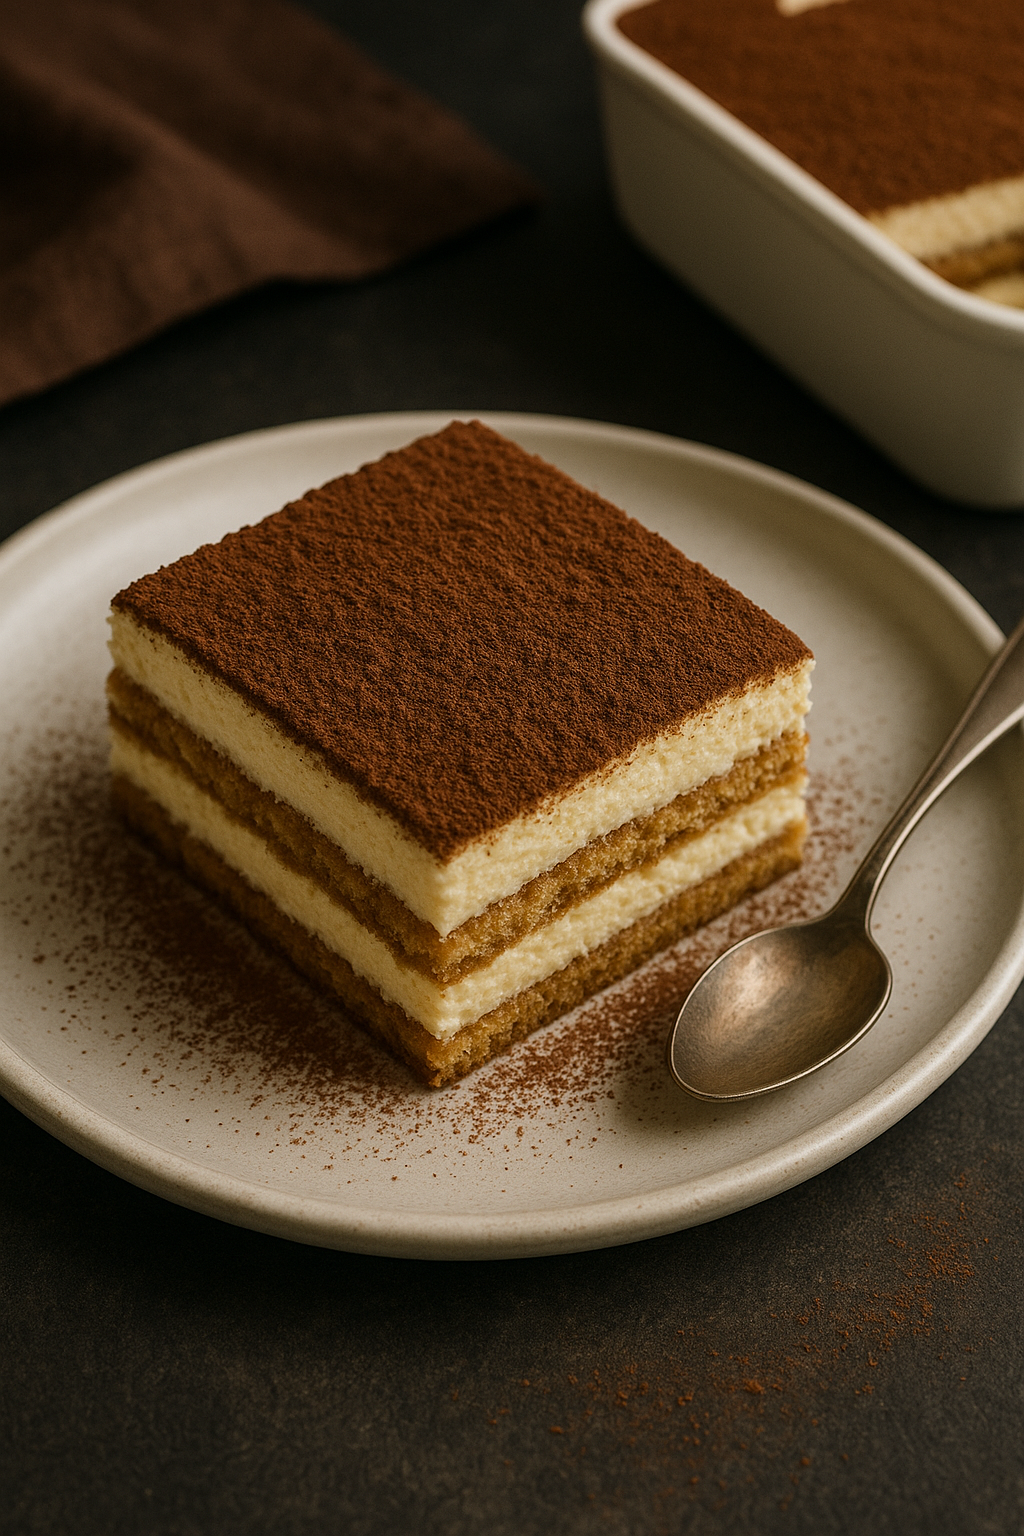
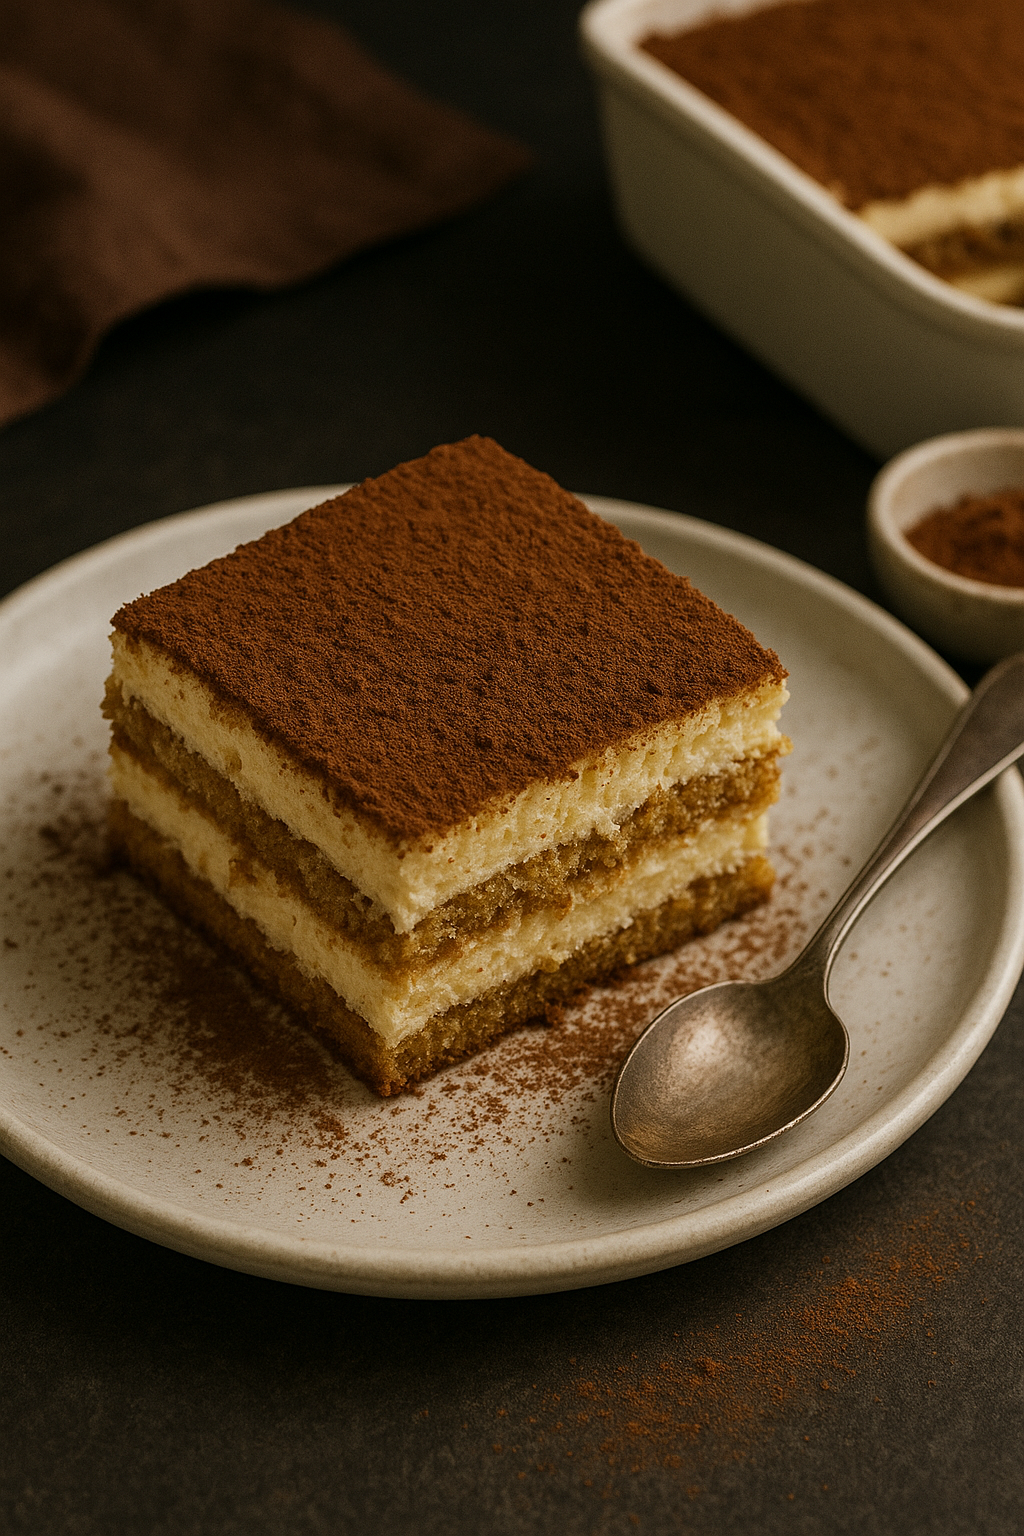
updated pictures

diff --git a/src/data/recipes/ragu-bolognese.ts b/src/data/recipes/ragu-bolognese.ts
@@ -4,7 +4,7 @@ const recipe: Recipe = {
   id: 'ragu-bolognese',
   title: 'Ragù alla Bolognese',
   description: 'Classic slow-cooked meat sauce from Bologna, perfect with tagliatelle.',
-  image: '/images/bolognese.png',
+  image: '/images/ragu-alla-bolognese.png',
   tags: ['Italian', 'pasta', 'slow-cook'],
   baseServings: 4,
   totalMinutes: 180,

diff --git a/src/data/recipes/pasta-ragu.ts b/src/data/recipes/pasta-ragu.ts
@@ -4,7 +4,7 @@ const recipe: Recipe = {
   id: 'pasta-ragu',
   title: 'Pasta with Ragù',
   description: 'Tagliatelle tossed with rich Bolognese ragù and Parmesan.',
-  image: '/images/pasta.jpg',
+  image: '/images/pasta-con-ragu.png',
   tags: ['Italian', 'pasta'],
   baseServings: 4,
   totalMinutes: 20,
